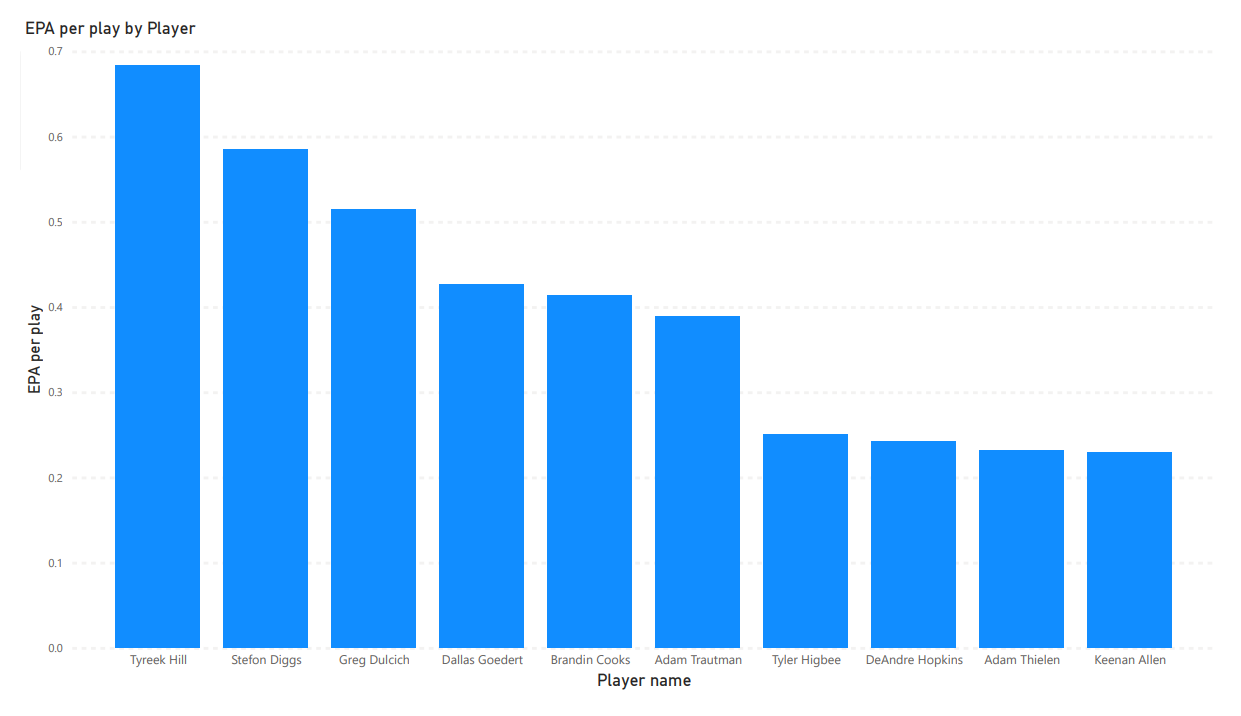
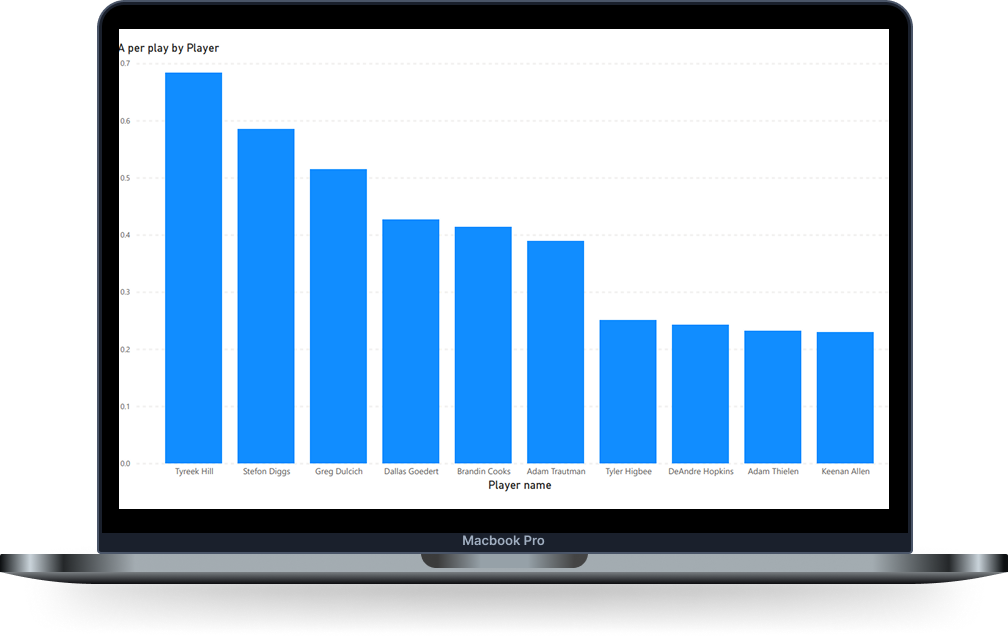
Swap project shots for the device mockups
All four projects now use framed device mockups instead of raw
captures: Blueprint on an iPhone showing the 3D model and piece
inventory, and Free Agency Steals, Vertical Tabs Manager and
StreetSmart on MacBooks. The three laptop frames are identically
sized, so the cards finally read as one set, and the Vertical Tabs
photo-of-a-monitor is gone.

The mockups have transparent backgrounds — 25% of pixels on the
laptop frames — so keeping placeholder-tile on a real shot would have
shown its striped fill and border through the empty corners around
each device. Real shots move to a .shot-tile class carrying only the
show/hide rule, which preserves hiding tiles on mobile; the striped
plate stays with the placeholder.

Verified all four decode, no failed requests, no scroll overflow at
desktop or mobile.

diff --git a/portfolio/src/data/projects.js b/portfolio/src/data/projects.js
@@ -12,7 +12,7 @@ export const projects = [
     ],
     tags: ['React', 'Tailwind CSS', 'Node.js', 'Three.js', 'Claude API'],
     repoUrl: 'https://github.com/alexwmson/Blueprint-Bearhacks2026',
-    image: '/shots/blueprint.jpg',
+    image: '/shots/blueprint.png',
     imageLabel: 'blueprint shot',
   },
   {
@@ -39,7 +39,7 @@ export const projects = [
     ],
     tags: ['React', 'TypeScript', 'Vite'],
     repoUrl: 'https://github.com/prannyv/wfnbrowser',
-    image: '/shots/vertical-tabs-manager.jpg',
+    image: '/shots/vertical-tabs-manager.png',
     imageLabel: 'extension shot',
   },
   {

diff --git a/portfolio/src/index.css b/portfolio/src/index.css
@@ -330,6 +330,13 @@ a {
   color: #D6D3D1;
 }
 
+/* Real shots carry only the show/hide rule, no striped fill or border: the
+   device mockups have transparent backgrounds, so a plate behind them would
+   show through as stripes and a stray rectangle around the frame. */
+.shot-tile {
+  display: var(--tile-display);
+}
+
 .placeholder-tile {
   background: repeating-linear-gradient(135deg, rgba(140,128,112,0.10) 0 9px, rgba(140,128,112,0.03) 9px 18px);
   border: 1px solid rgba(140, 128, 112, 0.28);

diff --git a/portfolio/src/components/ShotTile.jsx b/portfolio/src/components/ShotTile.jsx
@@ -19,7 +19,7 @@ export default function ShotTile({ src, alt, label }) {
         src={src}
         alt={alt}
         onError={() => setFailed(true)}
-        className="placeholder-tile max-h-[300px] w-full object-contain"
+        className="shot-tile max-h-[300px] w-full object-contain"
       />
     )
   }
